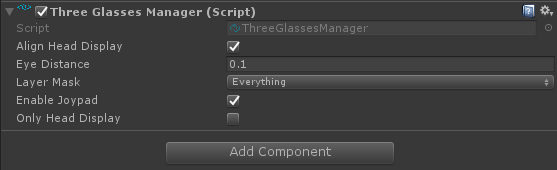
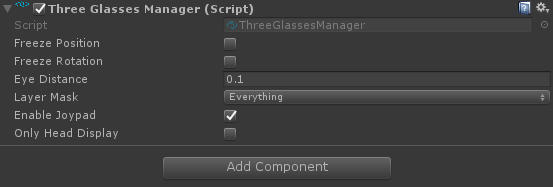
add about and movescale

diff --git a/Assets/ThreeGlasses/Scripts/ThreeGlassesManager.cs b/Assets/ThreeGlasses/Scripts/ThreeGlassesManager.cs
@@ -18,7 +18,8 @@ namespace ThreeGlasses
         private ThreeGlassesSubCamera[] subCameraScript = new ThreeGlassesSubCamera[CAMERA_NUM];
         public static Vector3 headDisplayPosition = new Vector3();
         public static Quaternion headDisplayRotation = new Quaternion();
-        public bool alignHeadDisplay = true;
+		public bool freezePosition = false;
+		public bool freezeRotation = false;
 
         // RenderTexture
         private static RenderTexture[] renderTexture = new RenderTexture[CAMERA_NUM];
@@ -203,18 +204,22 @@ namespace ThreeGlasses
                 var hmdPosition = new Vector3(hmd[0] / 700.0f, hmd[1] / 700.0f, -hmd[2] / 700.0f);
                 headDisplayRotation = new Quaternion(hmd[3], -hmd[4], hmd[5], -hmd[6]);
 
-                if (ThreeGlassesUtils.CheckNaN(hmdPosition))
+				if (!freezePosition && ThreeGlassesUtils.CheckNaN(hmdPosition))
                 {
                     thisCam.transform.localPosition = headDisplayPosition = hmdPosition;
                 }
-                thisCam.transform.localRotation = headDisplayRotation;
+
+				if (!freezeRotation)
+				{
+					thisCam.transform.localRotation = headDisplayRotation;	
+				}
 
                 // update wand info
                 if (!enableJoypad) continue;
                 var leftWandPosition = new Vector3(
                     -wand_left[0],
                     wand_left[1],
-                    -wand_left[2]) / 500.0f;
+                    -wand_left[2]) / 1000.0f;
                 if (ThreeGlassesUtils.CheckNaN(leftWandPosition))
                 {
                     joyPad[0].pack.position = leftWandPosition;
@@ -230,7 +235,7 @@ namespace ThreeGlasses
                 var rightWandPosition = new Vector3(
                     -wand_right[0],
                     wand_right[1],
-                    -wand_right[2]) / 500.0f;
+                    -wand_right[2]) / 1000.0f;
                 if (ThreeGlassesUtils.CheckNaN(rightWandPosition))
                 {
                     joyPad[1].pack.position = rightWandPosition;

diff --git a/Assets/ThreeGlasses/Editor/ThreeGlassesAbout.cs b/Assets/ThreeGlasses/Editor/ThreeGlassesAbout.cs
@@ -1,0 +1,47 @@
+using UnityEngine;
+using System.Collections;
+using UnityEditor;
+
+public class ThreeGlassesAbout : EditorWindow
+{
+	private string version = "7.0.0";
+	private string url = "https://github.com/3Glasses/UnitySDK";
+    private Texture texture;
+
+    void Awake()
+    {
+        texture = Resources.Load("ThreeGlasses/Image/eye") as Texture;
+    }
+    
+	[MenuItem("3Glasses/About", false, 2)]
+    static void Init()
+    {
+        Rect wr = new Rect(0, 0, 400, 150);
+		ThreeGlassesAbout window = (ThreeGlassesAbout)EditorWindow.GetWindowWithRect (typeof(ThreeGlassesAbout),
+                                                                              wr, true, "About SDK");
+		window.Show ();
+    }
+
+    void OnGUI ()
+    {
+		EditorGUILayout.BeginVertical ();
+		Rect rc = new Rect (30, 10, 100, 60);
+		GUI.DrawTexture (rc, texture);
+		rc.y = 70;
+		rc.x = 80;
+		GUI.Label (rc, "Version: " + version);
+		rc.y += 20;
+		rc.width = 500;
+		GUIStyle custom = new GUIStyle();
+		
+		custom.hover.textColor = new Color (0, 0, 0.5f);
+		custom.normal.textColor = new Color (1, 1, 1);
+		custom.richText = true;
+		if(GUI.Button(rc, url, custom))
+		{
+			Help.BrowseURL (url);
+		}
+
+		EditorGUILayout.EndVertical ();
+	}
+}

diff --git a/Assets/ThreeGlasses/Scripts/ThreeGlassesWandBind.cs b/Assets/ThreeGlasses/Scripts/ThreeGlassesWandBind.cs
@@ -9,6 +9,12 @@ namespace ThreeGlasses
         public bool sendToChildren = true;
         public bool updateSelf = true;
         private Vector3 origin;
+		public float moveScale = 1.0f;
+		public float MoveScale
+		{
+			get{ return moveScale; }
+			set{ moveScale = value; }
+		}
         public enum UpdateType
         {
             Local,
@@ -37,12 +43,12 @@ namespace ThreeGlasses
             {
                 if (updateType == UpdateType.Local)
                 {
-                    tran.localPosition = origin + pack.position;
+					tran.localPosition = origin + pack.position*moveScale;
                     tran.localRotation = pack.rotation;
                 }
                 else
                 {
-                    tran.position = origin + pack.position;
+					tran.position = origin + pack.position*moveScale;
                     tran.rotation = pack.rotation;
                 }
                 

diff --git a/Assets/ThreeGlasses/Editor/ThreeGlassesMenuItem.cs b/Assets/ThreeGlasses/Editor/ThreeGlassesMenuItem.cs
@@ -12,14 +12,14 @@ namespace ThreeGlasses
     {
         const string kEnableHeadDisplay = "3Glasses/EnableHeadDisplay";
 
-        [UnityEditor.MenuItem(kEnableHeadDisplay, true)]
+        [UnityEditor.MenuItem(kEnableHeadDisplay, true, 1)]
         public static bool ToggleSimulationModeValidate()
         {
             Menu.SetChecked(kEnableHeadDisplay, GameObject.FindObjectOfType(typeof(ThreeGlassesManager)) != null);
             return true;
         }
 
-        [UnityEditor.MenuItem(kEnableHeadDisplay)]
+        [UnityEditor.MenuItem(kEnableHeadDisplay, false, 1)]
 		public static void ToggleSimulationMode ()
 		{
             if(GameObject.FindObjectOfType(typeof(ThreeGlassesManager)) != null)

diff --git a/Assets/ThreeGlassesSample/Scripts/WandController.cs b/Assets/ThreeGlassesSample/Scripts/WandController.cs
@@ -8,6 +8,7 @@ public class WandController : MonoBehaviour {
     public float moveSpeed = 5.0f;
     public float rotateSpeed = 20f;
     private float currRate = 0.0f;
+	public float moveScale = 2.0f;
     public enum UseType
     {
         UseGet = 0,
@@ -116,7 +117,6 @@ public class WandController : MonoBehaviour {
                     Rigidbody rb = bullet.AddComponent<Rigidbody>();
                     rb.AddForce(transform.forward * bulletSpeed, ForceMode.VelocityChange);
                     Destroy(bullet, 10.0f);
-
                 }
             }
         }
